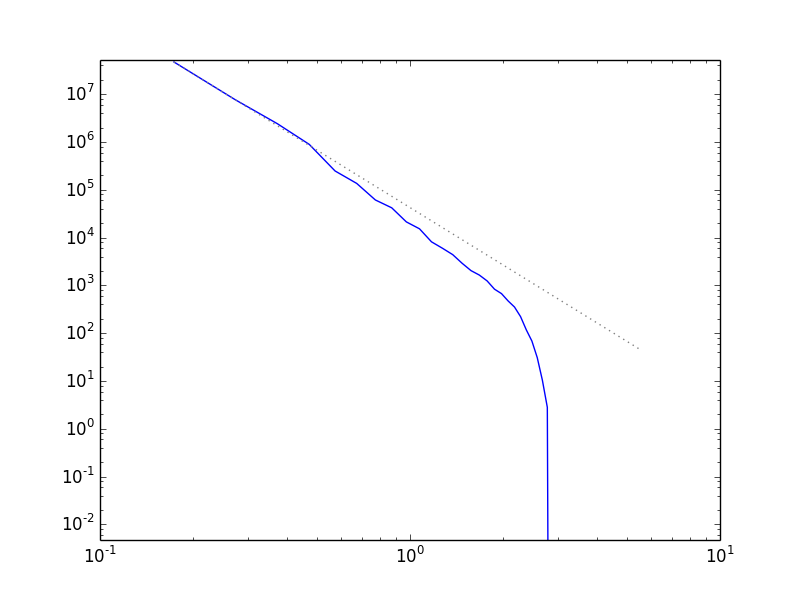
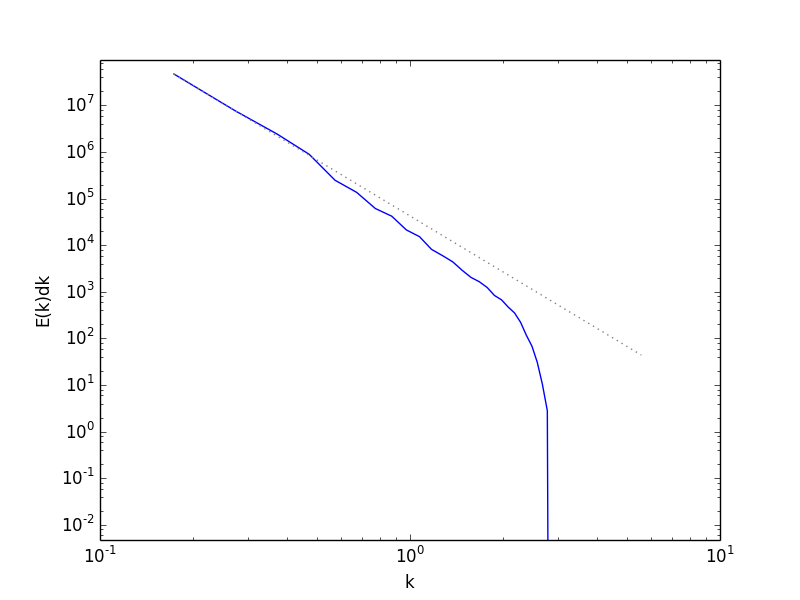
clean up the output

diff --git a/ps.py b/ps.py
@@ -51,6 +51,7 @@ print "min{k_x} = ", mode_min/L[0]
 
 ii_min = 3*mode_min**2 
 kmin = np.sqrt((mode_min/L[0])**2 + (mode_min/L[1])**2 + (mode_min/L[2])**2)
+
 A_ksmall = A_0*kmin**index/(weights[ii_min]*4.0*np.pi*kmin**2)
 
 print "amplitude of smallest k = ", np.sqrt(A_ksmall)
@@ -72,7 +73,7 @@ for m in range(mode_min,modes+1):
             ii2 = m**2 + n**2 + p**2
 
             k = np.sqrt(k_x**2 + k_y**2 + k_z**2)
-            dA = 4.0*np.pi*k**2
+            dA = 4*np.pi*k**2
             A = np.sqrt(A_0*k**index/(weights[ii2]*dA))
 
             phi += A*np.sin(2.0*np.pi*k_x*x3d + 
@@ -219,8 +220,6 @@ for n in range(len(ncount)):
         E_spectrum[n-1] = np.sum((np.abs(phi_hat)**2).flat[whichbin==n]) #/ncount[n]
 
 
-print ncount
-
 #---------------------------------------------------------------------------
 # plot the power spectrum
 #---------------------------------------------------------------------------
@@ -237,16 +236,19 @@ else:
 print k.shape
 print E_spectrum.shape
 
-print k[0], k[1], dk
-
 plt.loglog(k, E_spectrum)
 
 ii = np.argmax(E_spectrum)
 kmax = k[ii]
 Emax = E_spectrum[ii]
 
+print "maximum E = {} at k = {}".format(Emax, kmax)
+
 plt.loglog(k, Emax*(k/kmax)**index, ls=":", color="0.5")
-plt.ylim(1.e-10*Emax, 1.1*Emax)
+plt.ylim(1.e-10*Emax, 2.0*Emax)
+
+plt.xlabel("k")
+plt.ylabel("E(k)dk")
 
 plt.savefig("ps.png")
 
